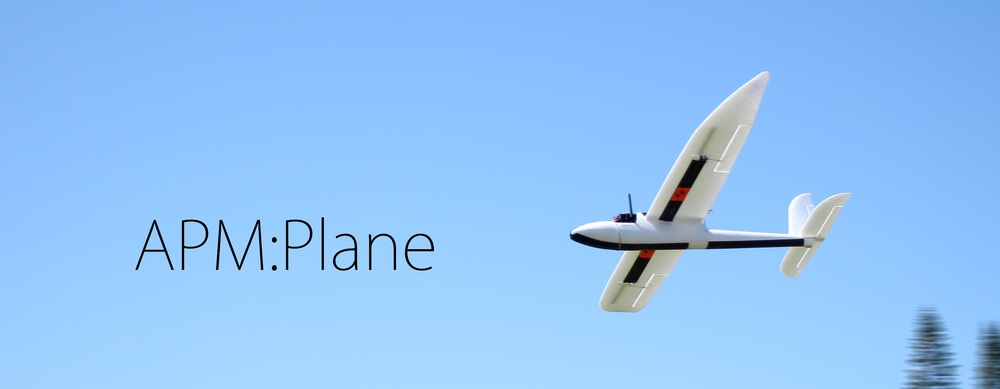
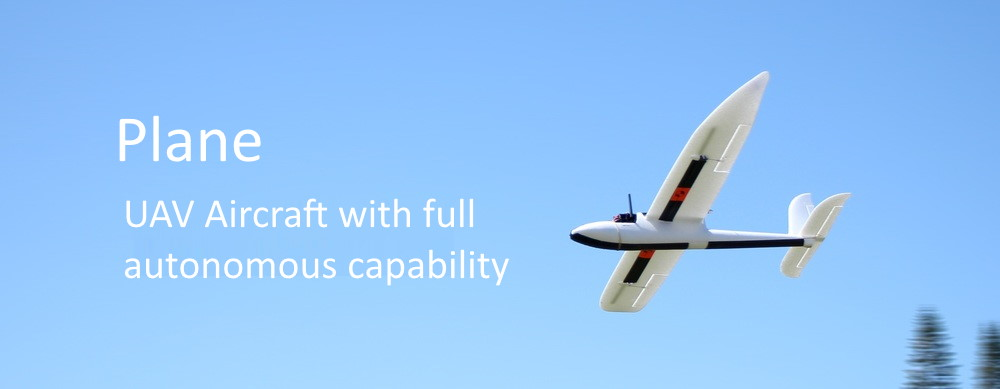
Update all site index home pages to have compatible images

Changed region(s): [[0.124, 0.4936, 0.527, 0.7404], [0.093, 0.3085, 0.279, 0.4319]]

diff --git a/plane/source/index.rst b/plane/source/index.rst
@@ -1,15 +1,12 @@
 .. _home:
 
-.. image:: /images/ArduPilot.png
-    :target: _images/ArduPlane.png
-
+==========
+Plane Home
+==========
 
 .. image:: /images/home_plane.jpg
     :target: _images/home_plane.jpg
 
-==========
-Plane Home
-==========
 
 The free Plane firmware running on a compatible controller board gives
 any fixed-wing aircraft full autonomous capability. VTOL fixed-wing aircraft that 
